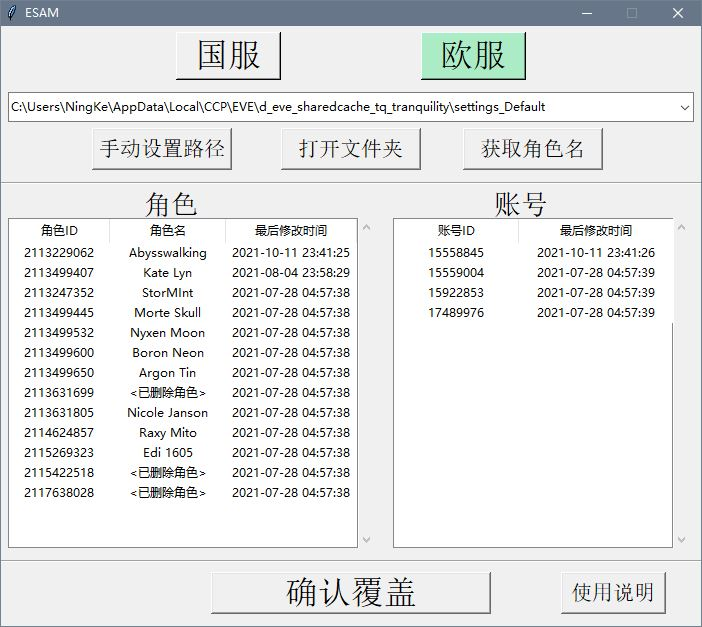
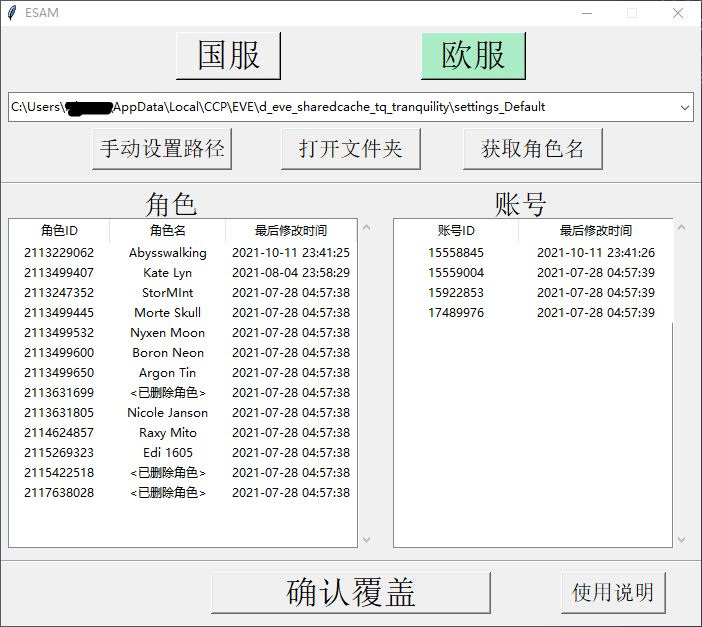
update screenshot, edit image link

Changed region(s): [[0.0, 0.0, 1.0, 0.1212], [0.9872, 0.1515, 1.0, 1.0], [0.0897, 0.1515, 0.1795, 0.1818]]

diff --git a/README.md b/README.md
@@ -1,5 +1,5 @@
 # ESAM
-![ESAM](https://user-images.githubusercontent.com/14357052/150668011-a6e729a2-c8f3-45b9-9426-49a7e926d651.JPG)
+![ESAM](https://user-images.githubusercontent.com/14357052/150668269-177f40e6-4387-4f34-aa3f-eacfcee662c4.JPG)
 
 ## 介绍
 [English](#en)</br>
